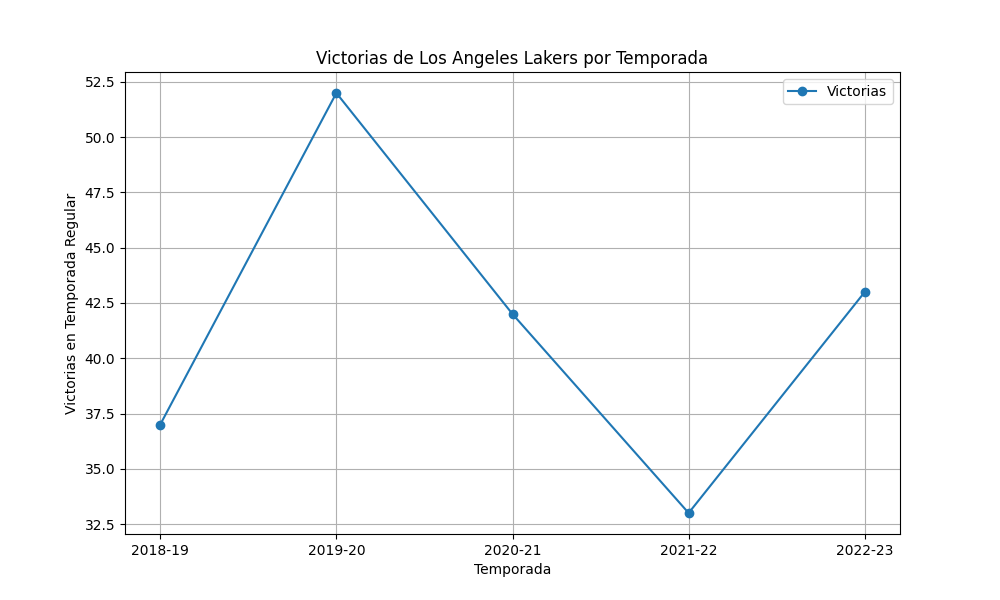
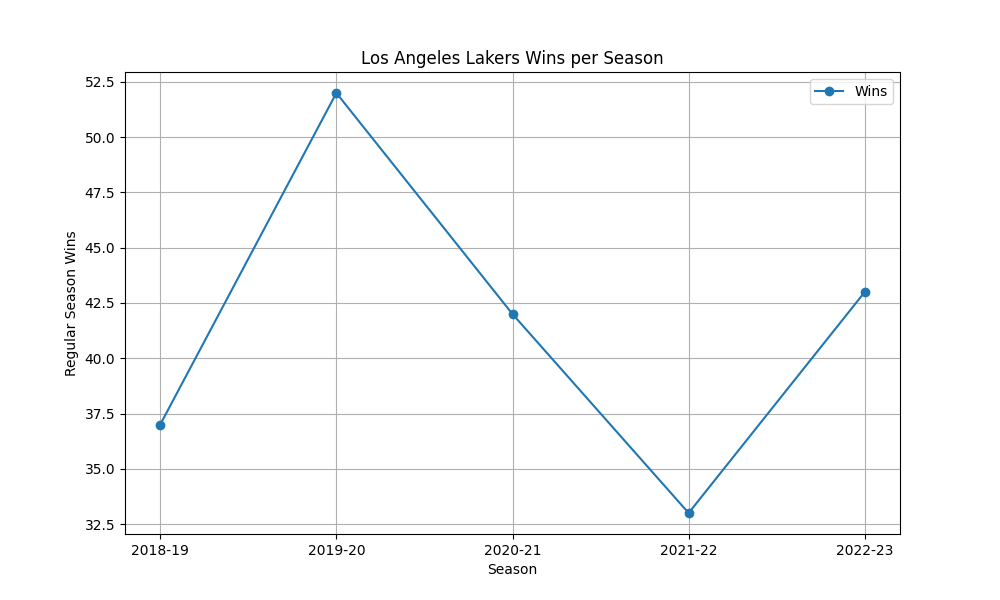
Updated scripts and translated all code to English

diff --git a/scripts/analysis/team_performance_analysis.py b/scripts/analysis/team_performance_analysis.py
@@ -3,87 +3,83 @@ import matplotlib.pyplot as plt
 import json
 import os
 
-# Obtener la ruta absoluta del directorio actual
+# Get the absolute path of the current directory
 current_dir = os.path.dirname(os.path.abspath(__file__))
 
-# Definir la ruta para cargar el archivo
+# Define the path to load the file
 file_path = os.path.join(current_dir, '../../data/raw/team_stats.json')
 
-# Cargar los datos desde el archivo JSON
+# Load data from the JSON file
 with open(file_path, 'r') as file:
     data = json.load(file)
 
-# Convertir los datos a un DataFrame de pandas
+# Convert the data into a pandas DataFrame
 df = pd.DataFrame(data)
 
-# Revisar las primeras filas del DataFrame para confirmar la carga de datos
+# Check the first few rows of the DataFrame to confirm data loading
 print(df.head())
 
-# Análisis de correlación entre victorias y clasificación en la conferencia con etiquetas de temporada en formato compacto
+# Correlation analysis between wins and conference rank with compact season labels
 plt.figure(figsize=(10, 6))
 
-# Iterar sobre cada equipo y agregar los datos al gráfico
+# Iterate over each team and add the data to the plot
 for team in df['team'].unique():
     team_data = df[df['team'] == team]
     plt.scatter(team_data['wins'], team_data['conf_rank'], label=team)
-    # Agregar etiquetas de temporada en formato más compacto
+    # Add season labels in a more compact format
     for i, row in team_data.iterrows():
         season_label = row['season'][-2:] + '/' + \
-            row['season'][:2]  # Formato "21/20"
-        # Ajustar posición para evitar solapamientos
+            row['season'][:2]  # Format "21/20"
+        # Adjust position to avoid overlaps
         plt.text(row['wins'] + 0.1, row['conf_rank'] -
                  0.2, season_label, fontsize=9)
 
-plt.title('Victorias vs Clasificación en la Conferencia')
-plt.xlabel('Victorias en Temporada Regular')
-plt.ylabel('Clasificación en la Conferencia')
-plt.gca().invert_yaxis()  # Invertir el eje Y para que 1 sea el más alto
-plt.legend(title="Equipos")
+plt.title('Wins vs Conference Rank')
+plt.xlabel('Regular Season Wins')
+plt.ylabel('Conference Rank')
+plt.gca().invert_yaxis()  # Invert Y-axis so 1 is the highest
+plt.legend(title="Teams")
 plt.grid(True)
 plt.savefig(os.path.join(
     current_dir, '../../reports/figures/wins_vs_conf_rank.png'))
 plt.show()
 
-
-# Análisis por equipo específico - Milwaukee Bucks (Giannis Antetokounmpo)
+# Analysis for specific team - Milwaukee Bucks (Giannis Antetokounmpo)
 bucks_data = df[df['team'] == 'Milwaukee Bucks']
 
 plt.figure(figsize=(10, 6))
-plt.plot(bucks_data['season'], bucks_data['wins'],
-         marker='o', label='Victorias')
-plt.title('Victorias de Milwaukee Bucks por Temporada')
-plt.xlabel('Temporada')
-plt.ylabel('Victorias en Temporada Regular')
+plt.plot(bucks_data['season'], bucks_data['wins'], marker='o', label='Wins')
+plt.title('Milwaukee Bucks Wins per Season')
+plt.xlabel('Season')
+plt.ylabel('Regular Season Wins')
 plt.legend()
 plt.grid(True)
 plt.savefig(os.path.join(
     current_dir, '../../reports/figures/bucks_wins_by_season.png'))
 plt.show()
 
-# Análisis por equipo específico - Philadelphia 76ers (Joel Embiid)
+# Analysis for specific team - Philadelphia 76ers (Joel Embiid)
 sixers_data = df[df['team'] == 'Philadelphia 76ers']
 
 plt.figure(figsize=(10, 6))
-plt.plot(sixers_data['season'], sixers_data['wins'],
-         marker='o', label='Victorias')
-plt.title('Victorias de Philadelphia 76ers por Temporada')
-plt.xlabel('Temporada')
-plt.ylabel('Victorias en Temporada Regular')
+plt.plot(sixers_data['season'], sixers_data['wins'], marker='o', label='Wins')
+plt.title('Philadelphia 76ers Wins per Season')
+plt.xlabel('Season')
+plt.ylabel('Regular Season Wins')
 plt.legend()
 plt.grid(True)
 plt.savefig(os.path.join(
     current_dir, '../../reports/figures/sixers_wins_by_season.png'))
 plt.show()
 
-# Análisis por equipo específico - Los Angeles Lakers (Anthony Davis)
+# Analysis for specific team - Los Angeles Lakers (Anthony Davis)
 lakers_data = df[df['team'] == 'Los Angeles Lakers']
 
 plt.figure(figsize=(10, 6))
-plt.plot(lakers_data['season'], lakers_data['wins'],
-         marker='o', label='Victorias')
-plt.title('Victorias de Los Angeles Lakers por Temporada')
-plt.xlabel('Temporada')
-plt.ylabel('Victorias en Temporada Regular')
+plt.plot(lakers_data['season'], lakers_data['wins'], marker='o', label='Wins')
+plt.title('Los Angeles Lakers Wins per Season')
+plt.xlabel('Season')
+plt.ylabel('Regular Season Wins')
 plt.legend()
 plt.grid(True)
 plt.savefig(os.path.join(

diff --git a/scripts/analysis/player_team_correlation.py b/scripts/analysis/player_team_correlation.py
@@ -2,7 +2,7 @@ import os
 import pandas as pd
 import matplotlib.pyplot as plt
 
-# Diccionario de abreviaturas a nombres completos
+# Dictionary to map abbreviations to full team names
 team_name_mapping = {
     'MIL': 'Milwaukee Bucks',
     'PHI': 'Philadelphia 76ers',
@@ -10,24 +10,23 @@ team_name_mapping = {
     'LAL': 'Los Angeles Lakers'
 }
 
-# Colores personalizados para cada jugador
+# Custom colors for each player
 player_color_mapping = {
     'Giannis Antetokounmpo': 'green',
     'Joel Embiid': 'blue',
     'Anthony Davis': 'yellow'
 }
 
-# Cargar los datos de los jugadores y equipos
+# Load player and team data
 current_dir = os.path.dirname(os.path.abspath(__file__))
 player_file_path = os.path.join(
     current_dir, '../../data/raw/nba_giannis_embiid_ad_stats_last_5_seasons.json')
 team_file_path = os.path.join(current_dir, '../../data/raw/team_stats.json')
 
-# Cargar datos de jugadores
 with open(player_file_path, 'r') as file:
     player_data = pd.read_json(file)
 
-# Extraer las estadísticas de carrera de los jugadores y organizarlas en un DataFrame
+# Extract player career stats and organize them into a DataFrame
 players_stats = []
 for _, row in player_data.iterrows():
     player_name = row['name']
@@ -39,28 +38,18 @@ players_df = pd.DataFrame(players_stats)
 players_df = players_df.rename(
     columns={'SEASON_ID': 'season', 'TEAM_ABBREVIATION': 'team'})
 players_df['season'] = players_df['season'].apply(lambda x: x.split('-')[0])
-
-# Convertir el campo de temporada a string para asegurar la consistencia
 players_df['season'] = players_df['season'].astype(str)
-
-# Mapear las abreviaturas de los equipos a nombres completos
 players_df['team'] = players_df['team'].map(team_name_mapping)
 
-# Cargar datos de equipos
 with open(team_file_path, 'r') as file:
     team_data = pd.read_json(file)
 
-# Ajustar el formato de las temporadas en los datos de equipos
 team_data['season'] = team_data['season'].apply(lambda x: x.split('-')[0])
 team_data['season'] = team_data['season'].astype(str)
 
-# Fusionar los datos por temporada y equipo
+# Merge player and team data by season and team
 merged_df = pd.merge(players_df, team_data, on=['season', 'team'], how='inner')
 
-# Verificar el contenido de merged_df
-print("Merged DataFrame:", merged_df.head())
-
-# Si el DataFrame `merged_df` no está vacío, generamos el gráfico de dispersión
 if not merged_df.empty:
     plt.figure(figsize=(10, 6))
     for player_name in merged_df['name'].unique():
@@ -71,14 +60,13 @@ if not merged_df.empty:
             plt.text(player_data['PTS'].iloc[i],
                      player_data['wins'].iloc[i], season, fontsize=9)
 
-    plt.title('Impacto del Jugador (Puntos) en las Victorias del Equipo')
-    plt.xlabel('Puntos del Jugador por Temporada')
-    plt.ylabel('Victorias del Equipo en Temporada Regular')
-    plt.legend(title="Jugadores")
+    plt.title('Player Impact (Points) on Team Wins')
+    plt.xlabel('Player Points per Season')
+    plt.ylabel('Team Wins in Regular Season')
+    plt.legend(title="Players")
     plt.grid(True)
     plt.savefig(os.path.join(
         current_dir, '../../reports/figures/player_impact_on_team_wins_colored.png'))
     plt.show()
-
 else:
-    print("El DataFrame 'merged_df' está vacío, no se pueden generar gráficos.")
+    print("The 'merged_df' DataFrame is empty, cannot generate charts.")

diff --git a/scripts/analysis/generate_graphs.py b/scripts/analysis/generate_graphs.py
@@ -2,12 +2,12 @@ import matplotlib.pyplot as plt
 import pandas as pd
 import json
 
-# Cargar los datos desde el archivo JSON
+# Load data from the JSON file
 file_path = 'data/raw/nba_giannis_embiid_ad_stats_last_5_seasons.json'
 with open(file_path, 'r') as file:
     data = json.load(file)
 
-# Convertir los datos JSON a un DataFrame de pandas
+# Convert JSON data to a pandas DataFrame
 players_data = []
 for player in data:
     player_name = player['name']
@@ -17,15 +17,13 @@ for player in data:
 
 df = pd.DataFrame(players_data)
 
-# Ordenar las columnas para mayor claridad
+# Order columns for clarity
 columns_order = ['name', 'SEASON_ID', 'TEAM_ABBREVIATION', 'PLAYER_AGE', 'GP', 'GS',
                  'MIN', 'PTS', 'REB', 'AST', 'STL', 'BLK', 'TOV', 'FG_PCT', 'FG3_PCT', 'FT_PCT']
 df = df[columns_order]
 
-# Crear gráficos de las estadísticas
+# Plot points per season for each player
 plt.figure(figsize=(14, 8))
-
-# Graficar los puntos por temporada para cada jugador
 for player_name in df['name'].unique():
     player_data = df[df['name'] == player_name]
     plt.plot(player_data['SEASON_ID'], player_data['PTS'],
@@ -36,11 +34,10 @@ plt.xlabel('Season')
 plt.ylabel('Points')
 plt.legend()
 plt.grid(True)
-# Guardar el gráfico de puntos
 plt.savefig('reports/figures/points_per_season.png')
 plt.show()
 
-# Graficar los rebotes por temporada para cada jugador
+# Plot rebounds per season for each player
 plt.figure(figsize=(14, 8))
 for player_name in df['name'].unique():
     player_data = df[df['name'] == player_name]
@@ -52,11 +49,10 @@ plt.xlabel('Season')
 plt.ylabel('Rebounds')
 plt.legend()
 plt.grid(True)
-# Guardar el gráfico de rebotes
 plt.savefig('reports/figures/rebounds_per_season.png')
 plt.show()
 
-# Graficar las asistencias por temporada para cada jugador
+# Plot assists per season for each player
 plt.figure(figsize=(14, 8))
 for player_name in df['name'].unique():
     player_data = df[df['name'] == player_name]
@@ -68,6 +64,5 @@ plt.xlabel('Season')
 plt.ylabel('Assists')
 plt.legend()
 plt.grid(True)
-# Guardar el gráfico de asistencias
 plt.savefig('reports/figures/assists_per_season.png')
 plt.show()

diff --git a/scripts/data_collection/fetch_team_stats.py b/scripts/data_collection/fetch_team_stats.py
@@ -2,7 +2,7 @@ from nba_api.stats.endpoints import teamyearbyyearstats, teamgamelog
 import pandas as pd
 import os
 
-# IDs de los equipos
+# Team IDs
 teams = {
     "Milwaukee Bucks": 1610612749,
     "Philadelphia 76ers": 1610612755,
@@ -10,7 +10,7 @@ teams = {
     "Los Angeles Lakers": 1610612747
 }
 
-# Temporadas de interés
+# Seasons of interest
 seasons = ['2018-19', '2019-20', '2020-21', '2021-22', '2022-23']
 
 all_team_data = []
@@ -26,7 +26,7 @@ for team_name, team_id in teams.items():
         losses = row['LOSSES']
         conf_rank = row['CONF_RANK']
 
-        # Obtener el historial de juegos para la temporada actual
+        # Get game logs for the current season
         game_log = teamgamelog.TeamGameLog(
             team_id=team_id, season=season).get_data_frames()[0]
         playoff_games = game_log[game_log['MATCHUP'].str.contains(
@@ -43,16 +43,11 @@ for team_name, team_id in teams.items():
             "playoff_results": playoff_results[['GAME_DATE', 'MATCHUP', 'WL', 'PTS', 'REB', 'AST']].to_dict('records') if not playoff_results.empty else "No playoffs data"
         })
 
-# Obtener la ruta absoluta del directorio actual
+# Save data to a JSON file
 current_dir = os.path.dirname(os.path.abspath(__file__))
-
-# Definir la ruta para guardar el archivo
 data_path = os.path.join(current_dir, '../../data/raw/team_stats.json')
-
-# Asegurarse de que la carpeta 'data/raw/' exista
 os.makedirs(os.path.dirname(data_path), exist_ok=True)
 
-# Guardar los datos en un archivo JSON
 with open(data_path, 'w') as f:
     pd.DataFrame(all_team_data).to_json(f, orient='records', indent=4)
 

diff --git a/nba_scraping.py b/nba_scraping.py
@@ -2,23 +2,23 @@ import requests
 from bs4 import BeautifulSoup
 import pandas as pd
 
-# URL de la página que queremos scrapear
+# URL of the page to scrape
 url = "https://www.basketball-reference.com/leagues/NBA_2024_per_game.html"
 
-# Realizar la solicitud HTTP a la URL
+# Send HTTP request to the URL
 response = requests.get(url)
 
-# Analizar el contenido HTML de la página
+# Parse the HTML content of the page
 soup = BeautifulSoup(response.content, 'html.parser')
 
-# Encontrar la tabla con las estadísticas de los jugadores
+# Find the table with player statistics
 table = soup.find('table', {'id': 'per_game_stats'})
 
-# Leer la tabla en un DataFrame de pandas
+# Read the table into a pandas DataFrame
 df = pd.read_html(str(table))[0]
 
-# Mostrar las primeras filas del DataFrame
+# Display the first few rows of the DataFrame
 print(df.head())
 
-# Guardar el DataFrame en un archivo CSV
+# Save the DataFrame to a CSV file
 df.to_csv('nba_player_stats_2024.csv', index=False)
